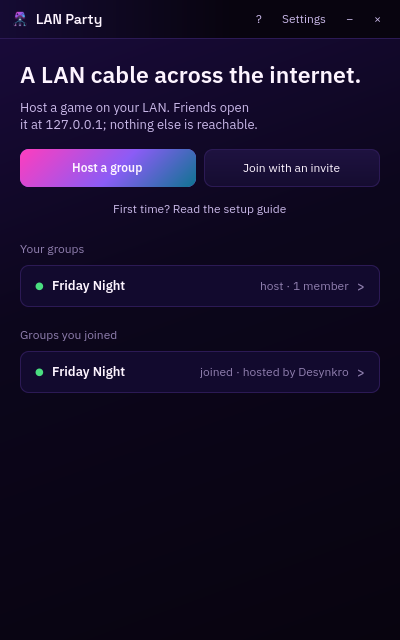
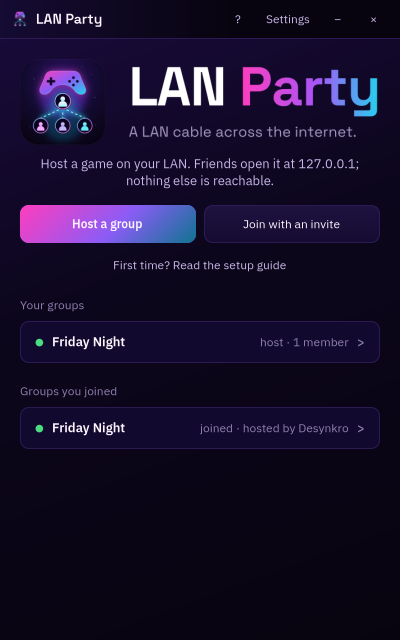
Used the horizontal brand lockup on Home and widened the setting descriptions
Home now opens with the dark horizontal lockup and centred body copy instead of a separate headline. Startup descriptions use a fixed 280px text column, so wrapping reaches further across the card and leaves a more even right margin.

diff --git a/internal/gtkui/probe.go b/internal/gtkui/probe.go
@@ -274,11 +274,18 @@ func (u *probeUI) buildHomePage() *gtk.ScrolledWindow {
 	page.SetMarginStart(20)
 	page.SetMarginEnd(20)
 
-	title := textLabel("A LAN cable across the internet.", "title")
-	title.SetMarginBottom(10)
-	page.Append(title)
+	lockup := gtk.NewPictureForFilename(filepath.Join(u.root, "brand", "png", "lockup-horizontal-dark-640.png"))
+	lockup.SetSizeRequest(340, 81)
+	lockup.SetCanShrink(true)
+	lockup.SetContentFit(gtk.ContentFitContain)
+	lockup.SetHAlign(gtk.AlignCenter)
+	lockup.SetMarginBottom(10)
+	page.Append(lockup)
 
 	body := textLabel("Host a game on your LAN. Friends open it at 127.0.0.1; nothing else is reachable.", "body")
+	body.SetHAlign(gtk.AlignFill)
+	body.SetXAlign(0.5)
+	body.SetJustify(gtk.JustifyCenter)
 	body.SetMarginBottom(16)
 	page.Append(body)
 

diff --git a/internal/gtkui/settings.go b/internal/gtkui/settings.go
@@ -196,6 +196,7 @@ func (u *probeUI) settingCard(title, description string, active bool, changed fu
 
 	descriptionLabel := textLabel(description, "desc")
 	descriptionLabel.SetHExpand(true)
+	descriptionLabel.SetSizeRequest(280, -1)
 
 	descriptionRow := gtk.NewBox(gtk.OrientationHorizontal, 0)
 	descriptionRow.Append(gapWidth(26))
